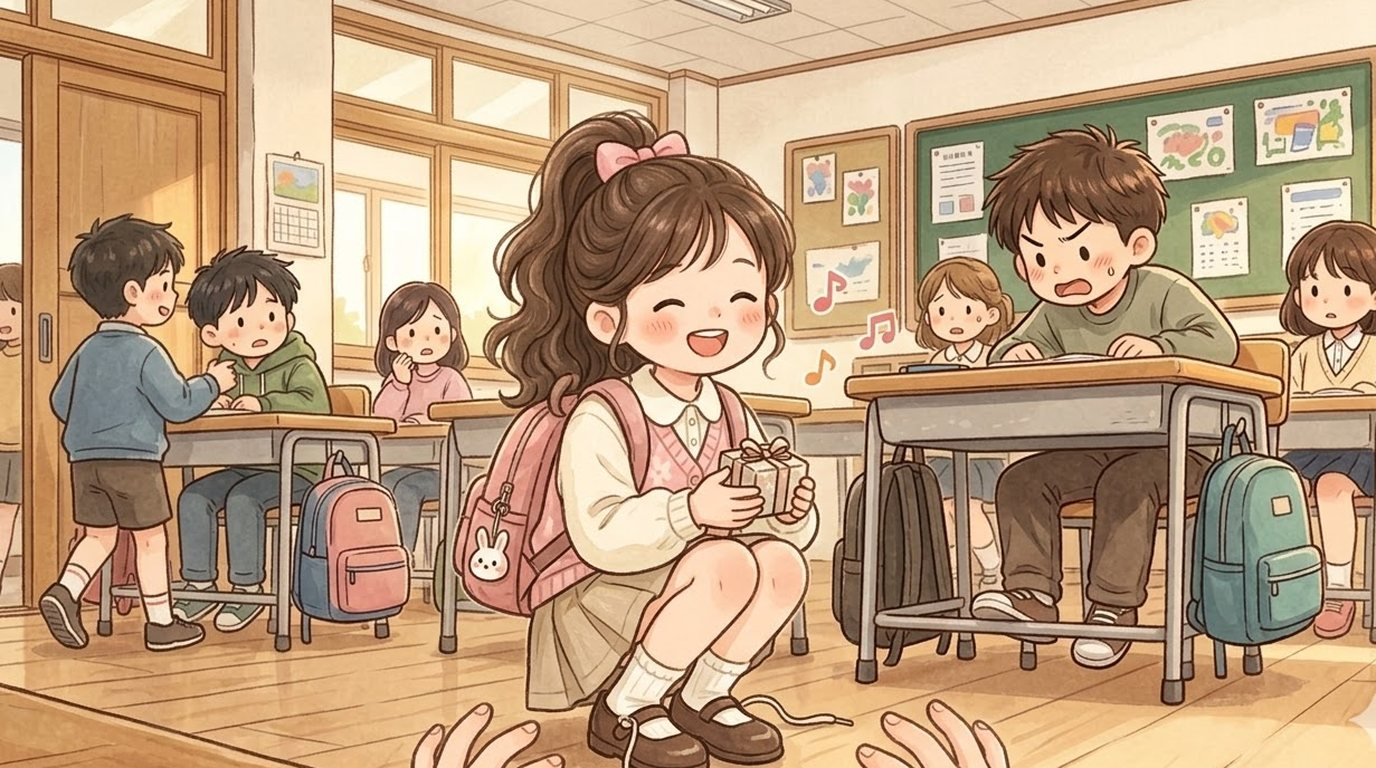
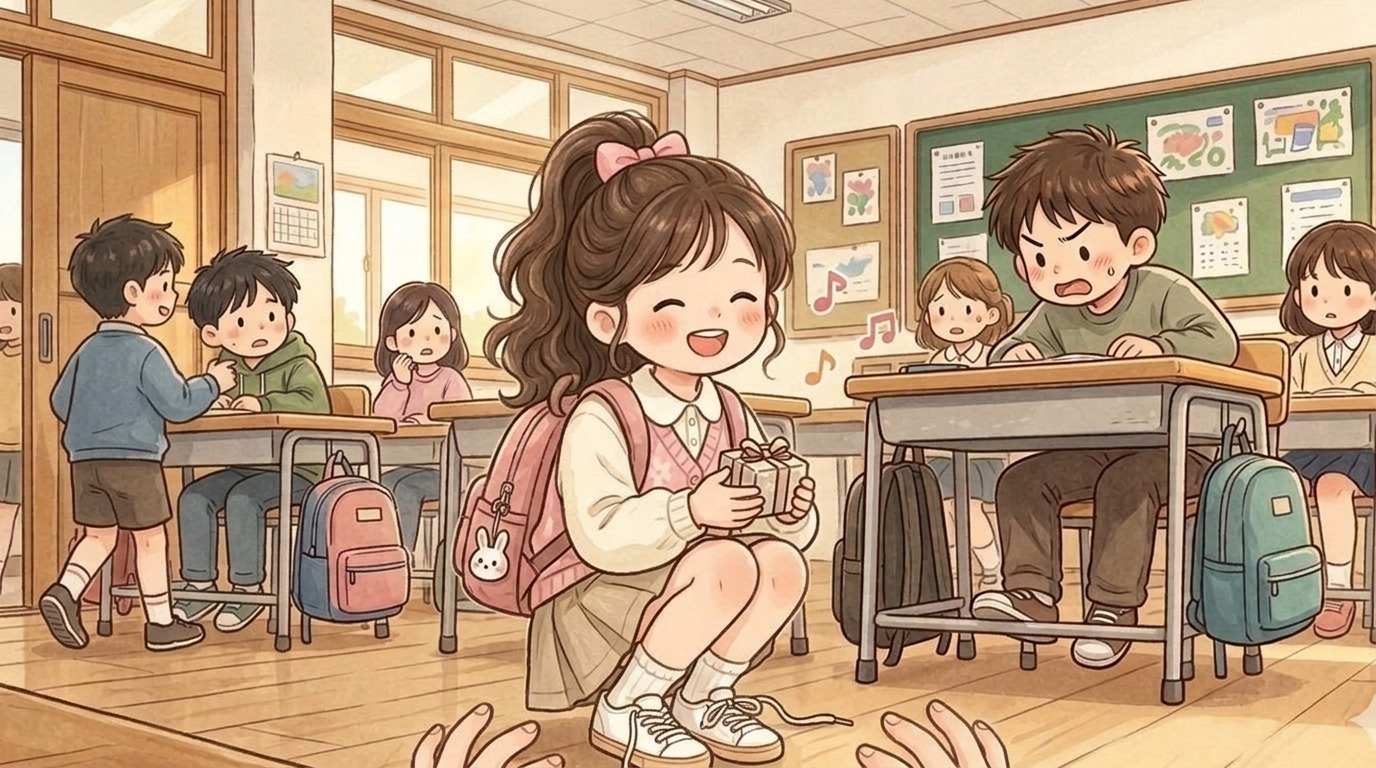
하은 13일차: 신발 끈 묶는 예나가 끈 없는 구두를 신고 있던 그림 → 끈 달린 흰 운동화(한쪽 끈 풀림)

diff --git a/index.html b/index.html
@@ -119,14 +119,14 @@ body,button{word-break:keep-all;overflow-wrap:break-word}
 <div id="fader"></div>
 <script>
 // same address, newest version: if the page this phone has kept is older than the one online, fetch the new one and reopen
-const BUILD='1108163530';
+const BUILD='1108163758';
 try{fetch(location.pathname,{cache:'no-store'}).then(r=>r.text()).then(t=>{const m=t.match(/const BUILD='(\d+)'/);if(m&&m[1]!==BUILD&&sessionStorage.getItem('upd')!==m[1]){sessionStorage.setItem('upd',m[1]);fetch(location.pathname,{cache:'reload'}).then(()=>location.reload())}}).catch(()=>{})}catch(e){}
 </script>
-<script src="i18n.js?v=1108163530"></script>
-<script src="i18n_prologue_v2.js?v=1108163530"></script>
-<script src="day2/i18n_engine.js?v=1108163530"></script>
-<script src="day2/data.js?v=1108163530"></script>
-<script src="day3/data.js?v=1108163530"></script>
+<script src="i18n.js?v=1108163758"></script>
+<script src="i18n_prologue_v2.js?v=1108163758"></script>
+<script src="day2/i18n_engine.js?v=1108163758"></script>
+<script src="day2/data.js?v=1108163758"></script>
+<script src="day3/data.js?v=1108163758"></script>
 <script>
 // ---------- data ----------
 const MW=1672,MH=941,KID=180;
@@ -569,36 +569,36 @@ function pickHero(){const m=document.getElementById('modal'),c=document.getEleme
  c.innerHTML=`<h2>${tr('전학생 반장되기')}</h2><p>${tr('한국말이 아직 서툰 전학생,<br>반장 선거에 나가다.')}</p><p style="margin-top:14px">${tr('누구로 할까요?')}</p>${(()=>{const s=loadSave();return s&&s.day>=2&&s.mode===UI+'-'+LANG?`<p><button class="big" id="cont">${tr('{n}일차부터 이어 하기').replace('{n}',s.day)}</button></p>`:''})()}<div class="pick heroes"><button data-h="hero_f"><img src="faces/hero_f_smile.jpg" alt="여자 주인공">${heroName(1)}</button><button data-h="hero_m"><img src="faces/hero_m_smile.jpg" alt="남자 주인공">${heroName(0)}</button></div>`;
  m.classList.add('on');{const cb=document.getElementById('cont');if(cb)cb.onclick=()=>{const s=loadSave();HERO=s.hero;Object.assign(HEART,s.heart||{});(s.found||[]).forEach(k=>FOUND.add(k));HEART_D1={...HEART};chime();(typeof contGame==='function'?contGame(s):startDay(Math.min(s.day,Object.keys(window.D3||{}).length?3:2)))}}c.querySelectorAll('.pick button').forEach(b=>b.onclick=()=>{HERO=b.dataset.h;m.classList.remove('on');chime();bgm('day');load('home_am');say([['nar','','이사 온 다음 날 아침. 아직 풀지 못한 상자들이 쌓여 있다.'],['think','sad','(오늘부터 새 학교야. 여기 말도 아직 서툰데…….)'],['think','smile','({m}한테 인사하고 학교 가야지.)']],morning)})}
 </script>
-<script src="day2/engine.js?v=1108163530"></script>
-<script src="day2/ep_minho.js?v=1108163530"></script>
-<script src="day2/meet.js?v=1108163530"></script>
-<script src="day2/ep_sua.js?v=1108163530"></script>
-<script src="day2/ep_hangyeol.js?v=1108163530"></script>
-<script src="day2/ep_siwoo.js?v=1108163530"></script>
-<script src="day2/ep_haram.js?v=1108163530"></script>
-<script src="day2/ep_jiho.js?v=1108163530"></script>
-<script src="day2/ep_hyeeun.js?v=1108163530"></script>
-<script src="day2/ep_haneul.js?v=1108163530"></script>
-<script src="day2/ep_junho.js?v=1108163530"></script>
-<script src="day2/ep_yuna.js?v=1108163530"></script>
-<script src="day2/ep_yena.js?v=1108163530"></script>
-<script src="day2/ep_haeun.js?v=1108163530"></script>
-<script src="day2/ep_youngmin.js?v=1108163530"></script>
-<script src="day2/ep_seah.js?v=1108163530"></script>
-<script src="day2/ep_jihoon.js?v=1108163530"></script>
-<script src="words_ja_ru.js?v=1108163530"></script>
-<script src="day2/mybag.js?v=1108163530"></script>
-<script src="day2/wordpics.js?v=1108163530"></script>
-<script src="day2/spots.js?v=1108163530"></script>
-<script src="day2/textfit.js?v=1108163530"></script>
-<script src="day2/tester.js?v=1108163530"></script>
-<script src="day2/ux.js?v=1108163530"></script>
-<script src="day2/tapword.js?v=1108163530"></script>
-<script src="day2/review.js?v=1108163530"></script>
-<script src="day2/plane.js?v=1108163530"></script>
-<script src="day2/bubble.js?v=1108163530"></script>
-<script src="day2/ep_ending.js?v=1108163530"></script>
-<script src="day2/ending.js?v=1108163530"></script>
+<script src="day2/engine.js?v=1108163758"></script>
+<script src="day2/ep_minho.js?v=1108163758"></script>
+<script src="day2/meet.js?v=1108163758"></script>
+<script src="day2/ep_sua.js?v=1108163758"></script>
+<script src="day2/ep_hangyeol.js?v=1108163758"></script>
+<script src="day2/ep_siwoo.js?v=1108163758"></script>
+<script src="day2/ep_haram.js?v=1108163758"></script>
+<script src="day2/ep_jiho.js?v=1108163758"></script>
+<script src="day2/ep_hyeeun.js?v=1108163758"></script>
+<script src="day2/ep_haneul.js?v=1108163758"></script>
+<script src="day2/ep_junho.js?v=1108163758"></script>
+<script src="day2/ep_yuna.js?v=1108163758"></script>
+<script src="day2/ep_yena.js?v=1108163758"></script>
+<script src="day2/ep_haeun.js?v=1108163758"></script>
+<script src="day2/ep_youngmin.js?v=1108163758"></script>
+<script src="day2/ep_seah.js?v=1108163758"></script>
+<script src="day2/ep_jihoon.js?v=1108163758"></script>
+<script src="words_ja_ru.js?v=1108163758"></script>
+<script src="day2/mybag.js?v=1108163758"></script>
+<script src="day2/wordpics.js?v=1108163758"></script>
+<script src="day2/spots.js?v=1108163758"></script>
+<script src="day2/textfit.js?v=1108163758"></script>
+<script src="day2/tester.js?v=1108163758"></script>
+<script src="day2/ux.js?v=1108163758"></script>
+<script src="day2/tapword.js?v=1108163758"></script>
+<script src="day2/review.js?v=1108163758"></script>
+<script src="day2/plane.js?v=1108163758"></script>
+<script src="day2/bubble.js?v=1108163758"></script>
+<script src="day2/ep_ending.js?v=1108163758"></script>
+<script src="day2/ending.js?v=1108163758"></script>
 <script>
 // the goal shows big for a few seconds, then folds into a small pill (tap it to open it again)
 {const g=document.getElementById('goal');let t=null;const big=()=>{g.classList.remove('mini');clearTimeout(t);t=setTimeout(()=>g.classList.add('mini'),4000)};
